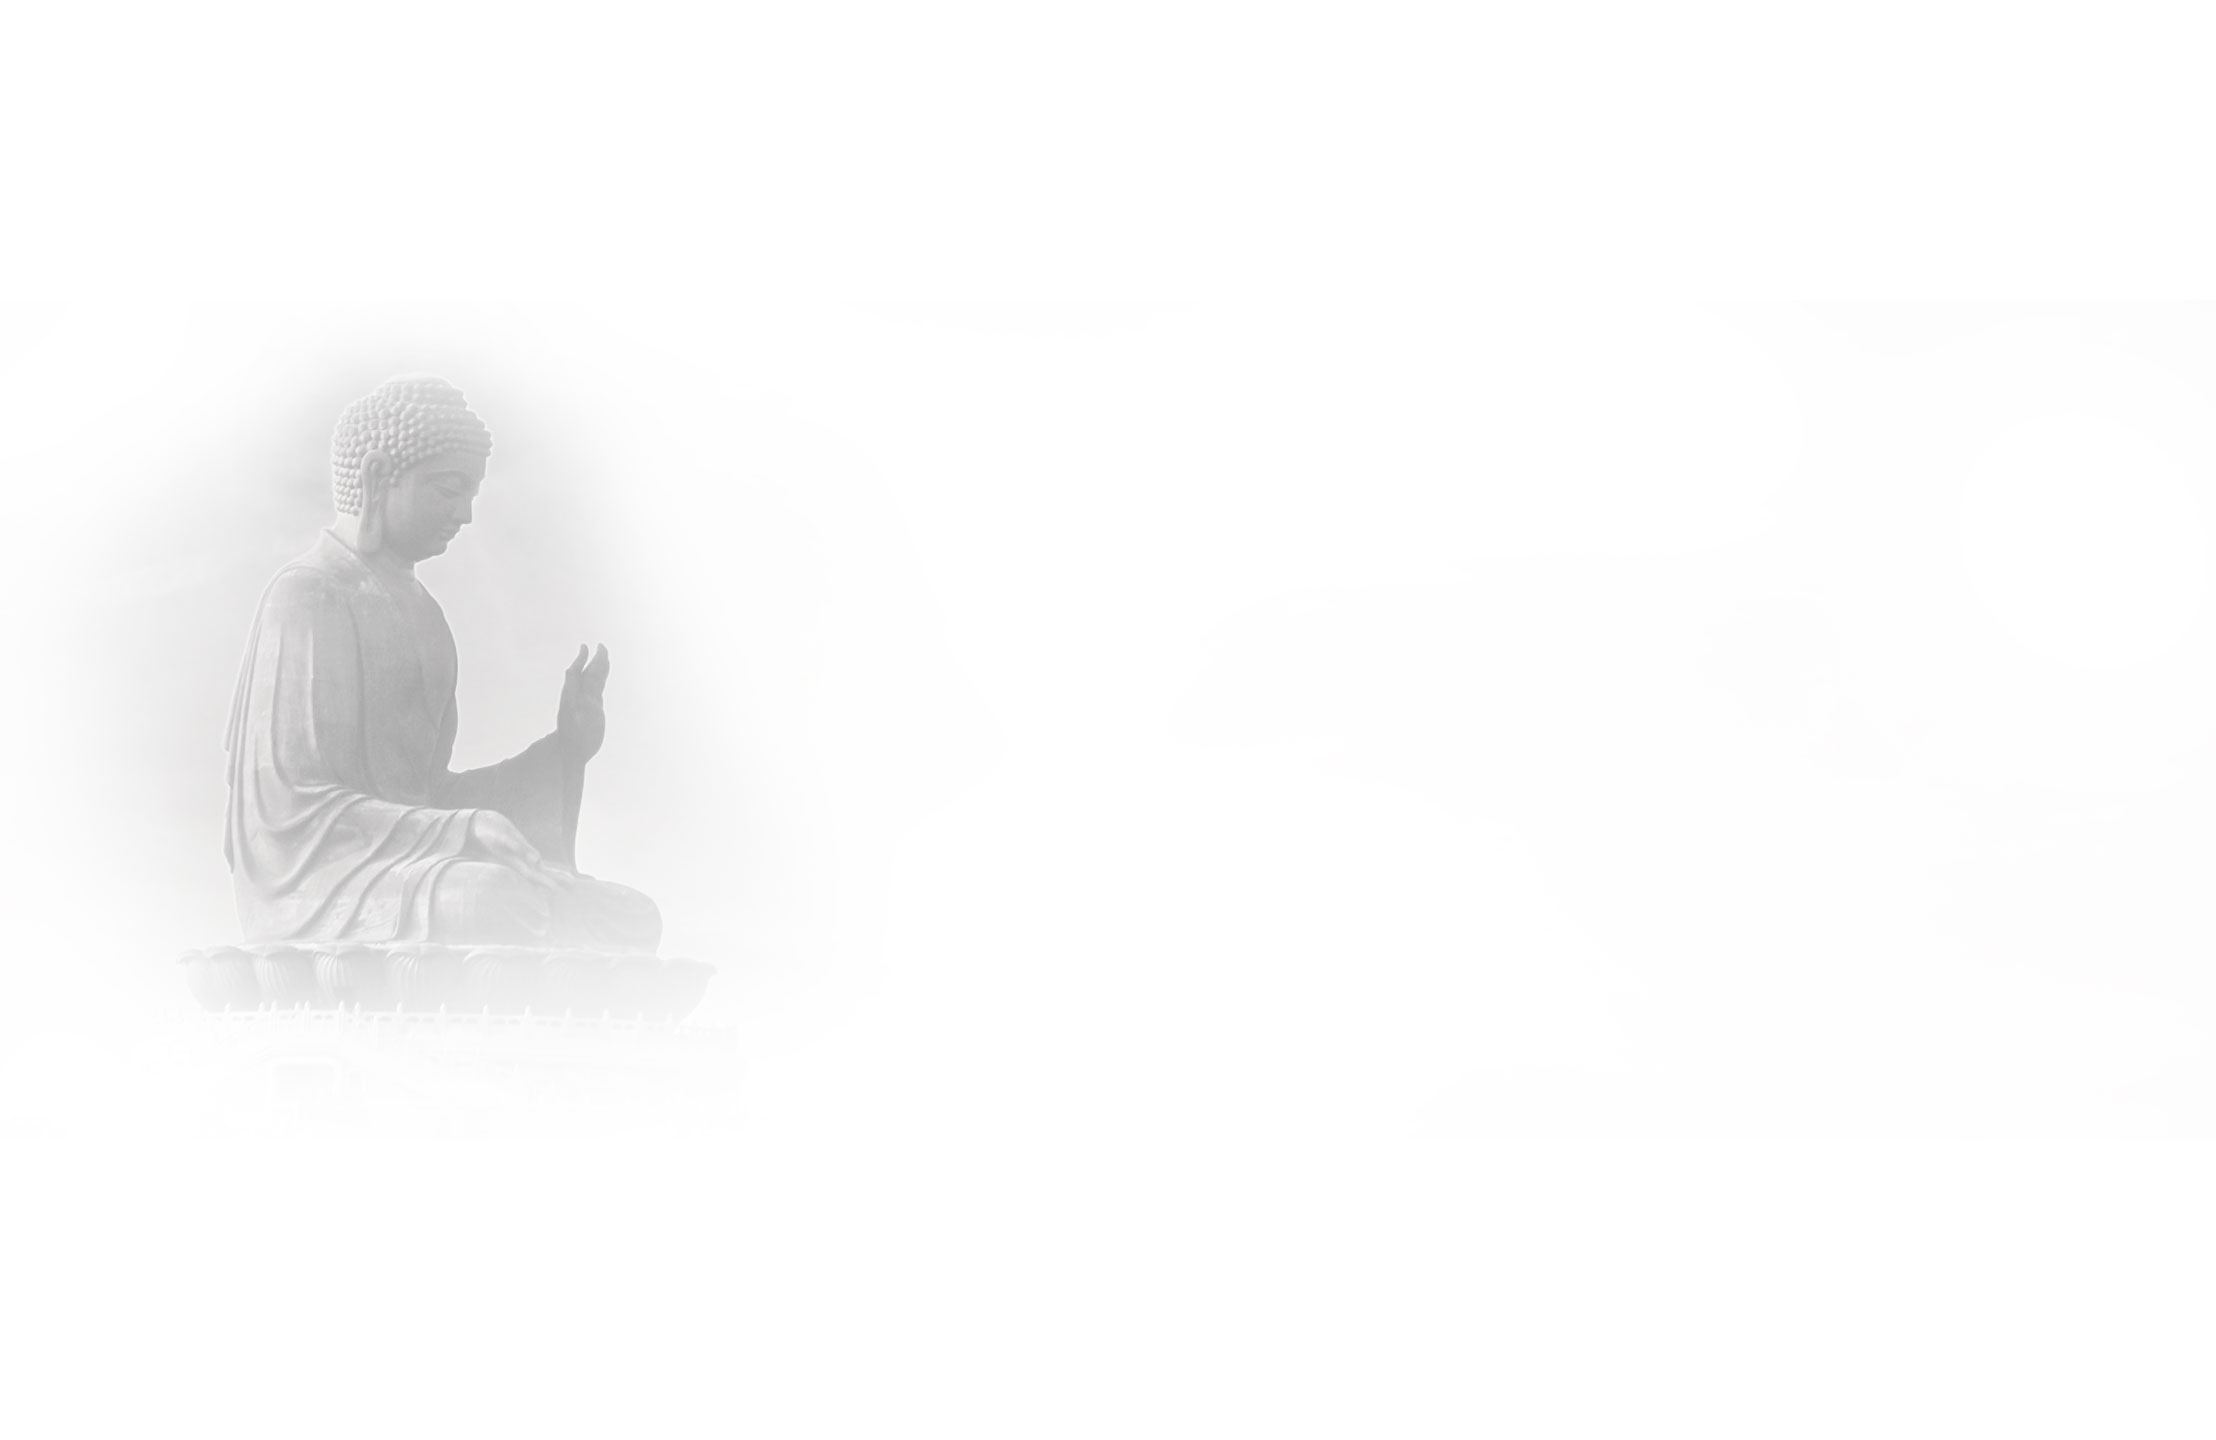
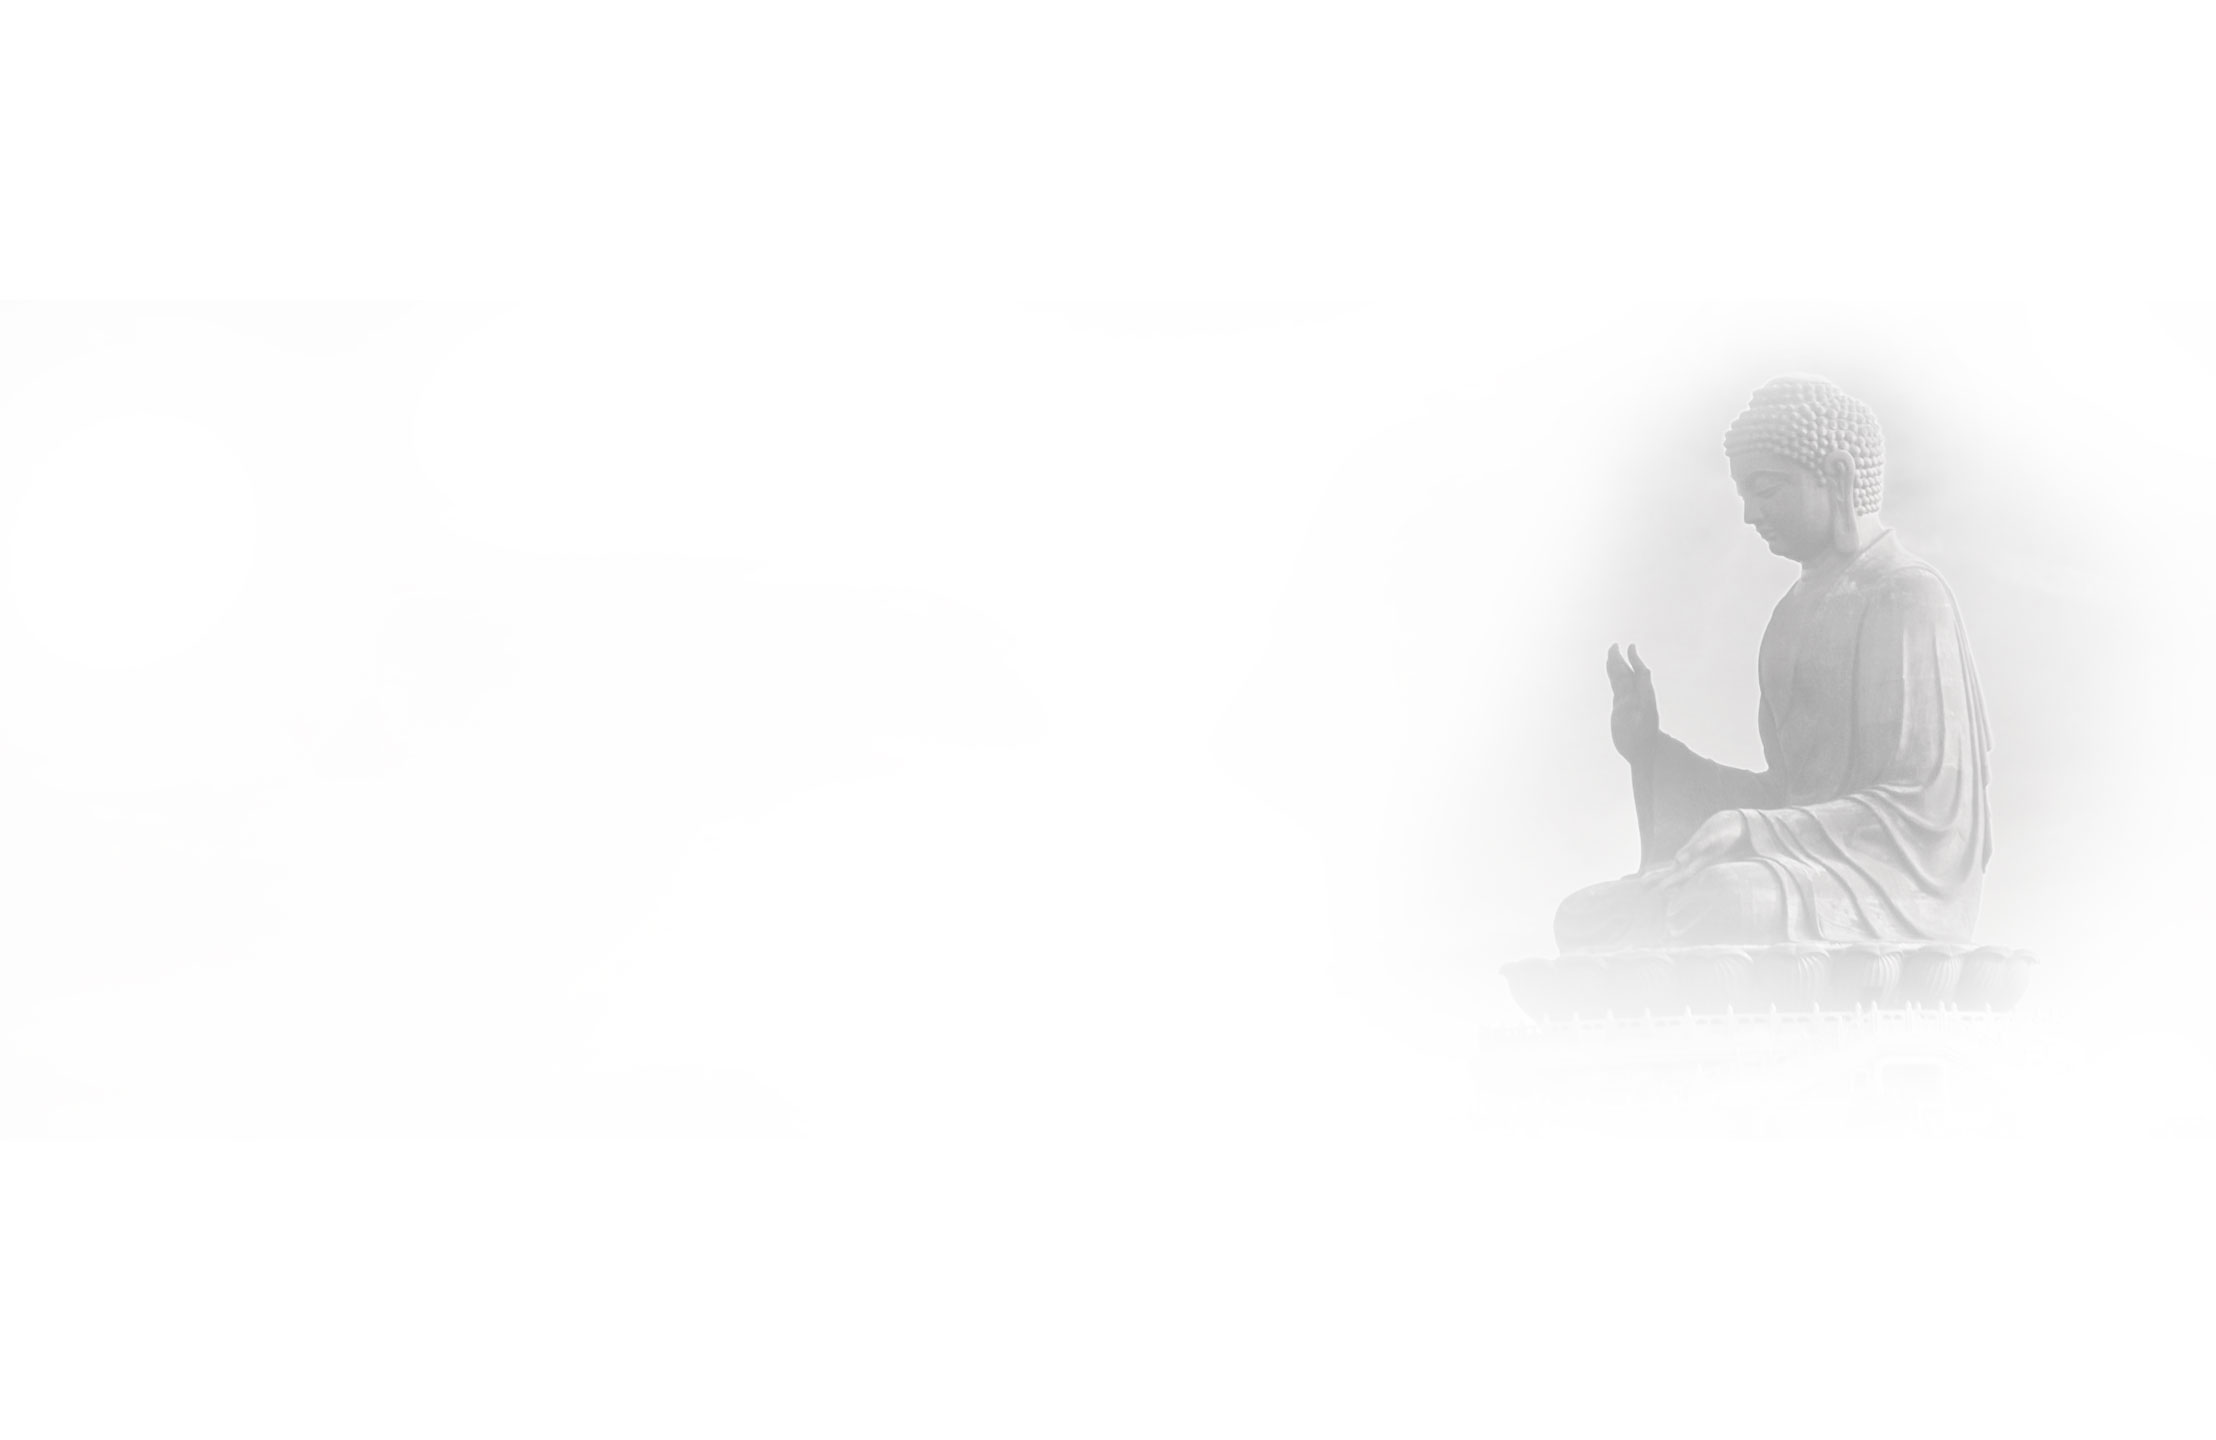
finished thanhqui

Changed region(s): [[0.685, 0.25, 0.9341, 0.7188], [0.0934, 0.25, 0.3114, 0.6875]]

diff --git a/app/assets/stylesheets/vouu.css b/app/assets/stylesheets/vouu.css
@@ -111,6 +111,7 @@
 	/*line-height: 25px;*/
 }
 .lotus {
+	clear:both;
 	height:40px;
 	/*background:#fd7507;*/
 	text-align: center;
@@ -138,12 +139,15 @@
 	font-size: 12px;
 }
 .footer {
-	height: 15px;
+	height: 40px;
 	padding-left: 25px;
 	text-align: left;
 	font-size:10px;
 	font-weight: lighter;
 	clear:both;
+}
+.footer p{
+	padding-top: 10px;
 }
 .gioithieu_banner {
 	text-align: center;
@@ -173,15 +177,34 @@
 	max-width: 300px;
 	max-height: 200px;
 }
-.thuyetphap {center
-
+.thuyetphap {
 	width: 100%;
-	height:800px;
-	background-image: url('thuyetphap_bg2.jpg');
-	background-size: 100% 100%;
+	height:600px;
+	background-image: url('thuyetphap_bg3.jpg');
+	background-size: 100% 120%;
 	background-position:left center;
 	background-repeat: no-repeat;
 }
 .thuyetphap h2{
+	
 	margin-top: 20px;
+}
+.thuyetphap p{
+	margin-left: 100px;
+}
+.danhsachbaiphap {
+	font-style: italic;
+	line-height: 30px;
+}
+.thanhqui {
+	background-image: url('thanhqui_bg2.jpg');
+	background-size:1000px 677px;
+	background-position: top center;
+	background-repeat: no-repeat;
+}
+.thanhqui h2 {
+	margin-top:20px;
+}
+.thanhqui p,h2,h3 {
+	margin-left: 100px;
 }
